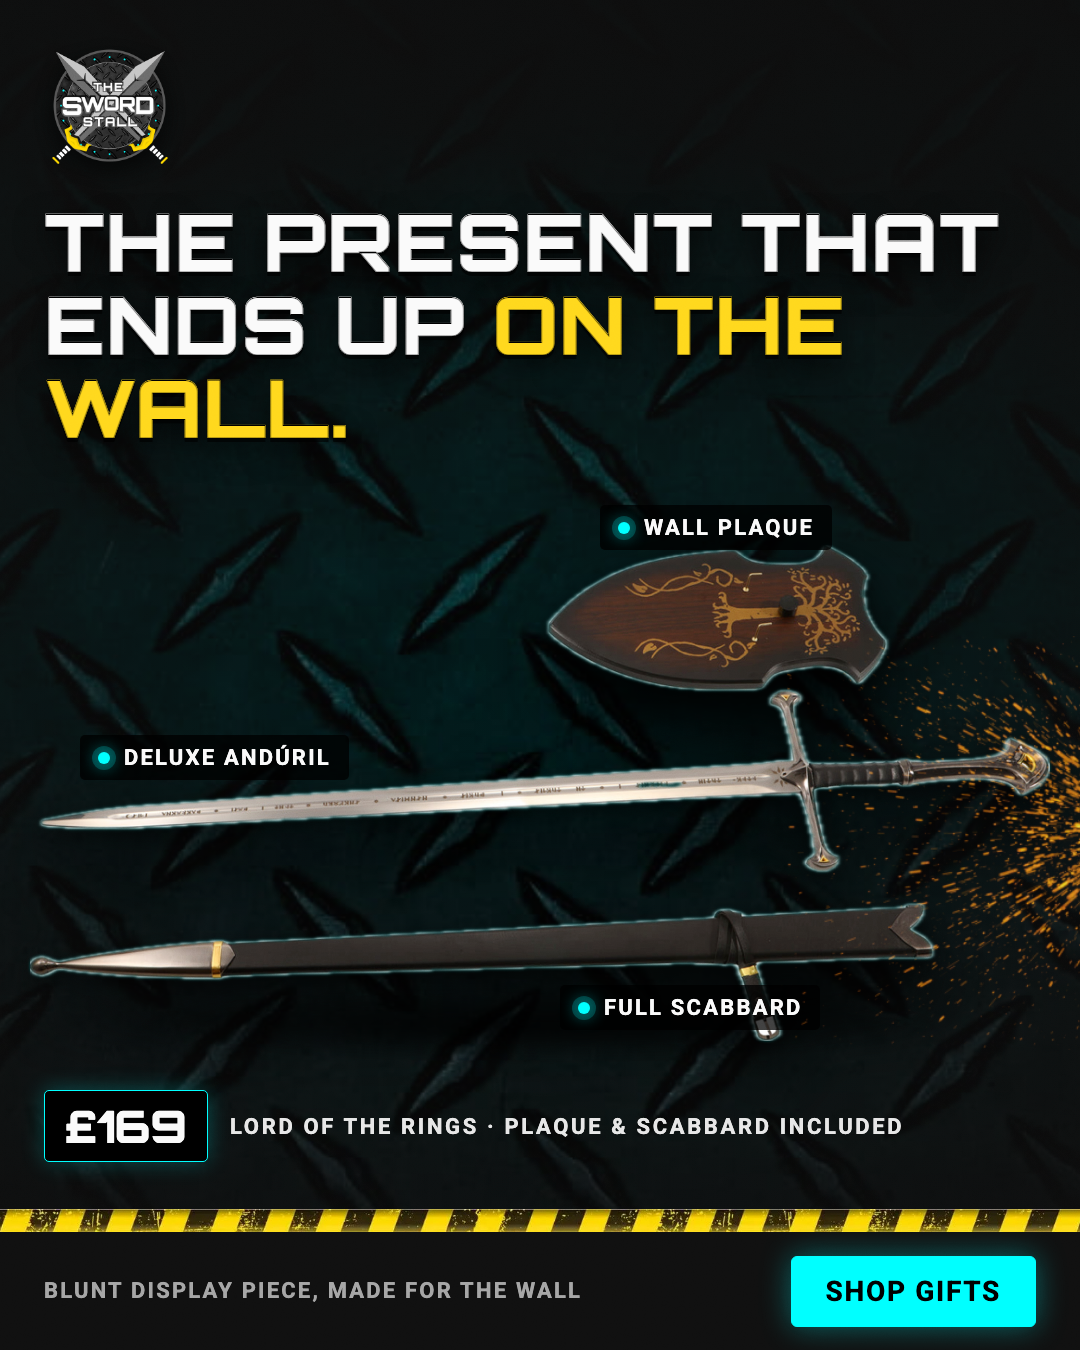
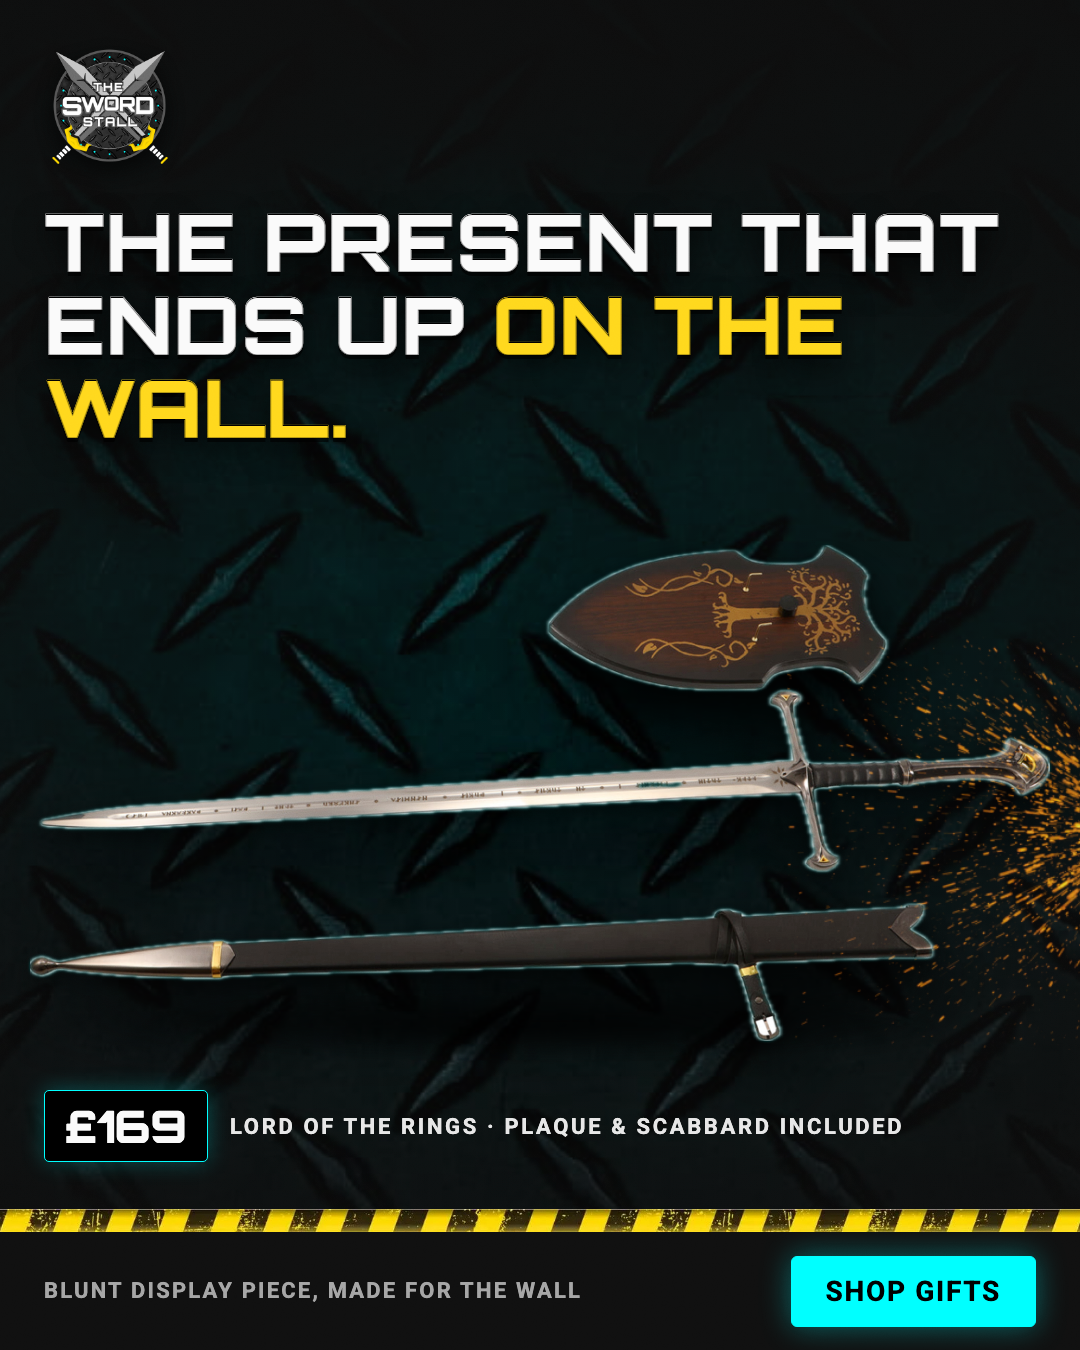
fix(sword-stall): remove off-brand callout pills from testing statics

diff --git a/outputs/creative/sword-stall/2026-09-29-testing-statics/source.html b/outputs/creative/sword-stall/2026-09-29-testing-statics/source.html
@@ -88,9 +88,6 @@ body:not(.solo) .ad{margin:0 0 40px}
   <h1 class="h" style="left:44px;right:44px;top:200px;font-size:80px">The present that ends up <em>on the wall.</em></h1>
   <div class="floor" style="left:120px;right:120px;top:990px;height:70px"></div>
   <img class="prod" src="a/anduril_0.png" alt="" style="left:30px;width:1020px;top:545px">
-  <div class="call" style="left:600px;top:505px"><i></i>Wall plaque</div>
-  <div class="call" style="left:80px;top:735px"><i></i>Deluxe Andúril</div>
-  <div class="call" style="left:560px;top:985px"><i></i>Full scabbard</div>
   <div style="left:44px;top:1090px;display:flex;align-items:center;gap:22px">
     <span class="price">£169</span><span class="vendor" style="color:#e6e6e6">Lord of the Rings · Plaque &amp; scabbard included</span>
   </div>
@@ -169,7 +166,6 @@ body:not(.solo) .ad{margin:0 0 40px}
   <div style="left:44px;right:44px;top:240px;height:600px;overflow:hidden;box-shadow:0 20px 40px rgba(0,0,0,.5);border:1px solid rgba(0,255,255,.35)">
     <img src="a/superior_3.jpg" alt="" style="position:absolute;inset:0;width:100%;height:100%;object-fit:cover;object-position:40% 55%">
   </div>
-  <div class="call" style="left:560px;top:280px"><i></i>Engraved blade</div>
   <div style="left:44px;right:44px;top:890px;display:flex;justify-content:space-between;align-items:flex-start;gap:30px">
     <div><div class="vendor">Lord of the Rings</div><div class="title" style="font-size:42px;margin-top:6px">Superior Andúril,<br>The Sword Reforged</div></div>
     <span class="price" style="position:static;flex:none">£179</span>
